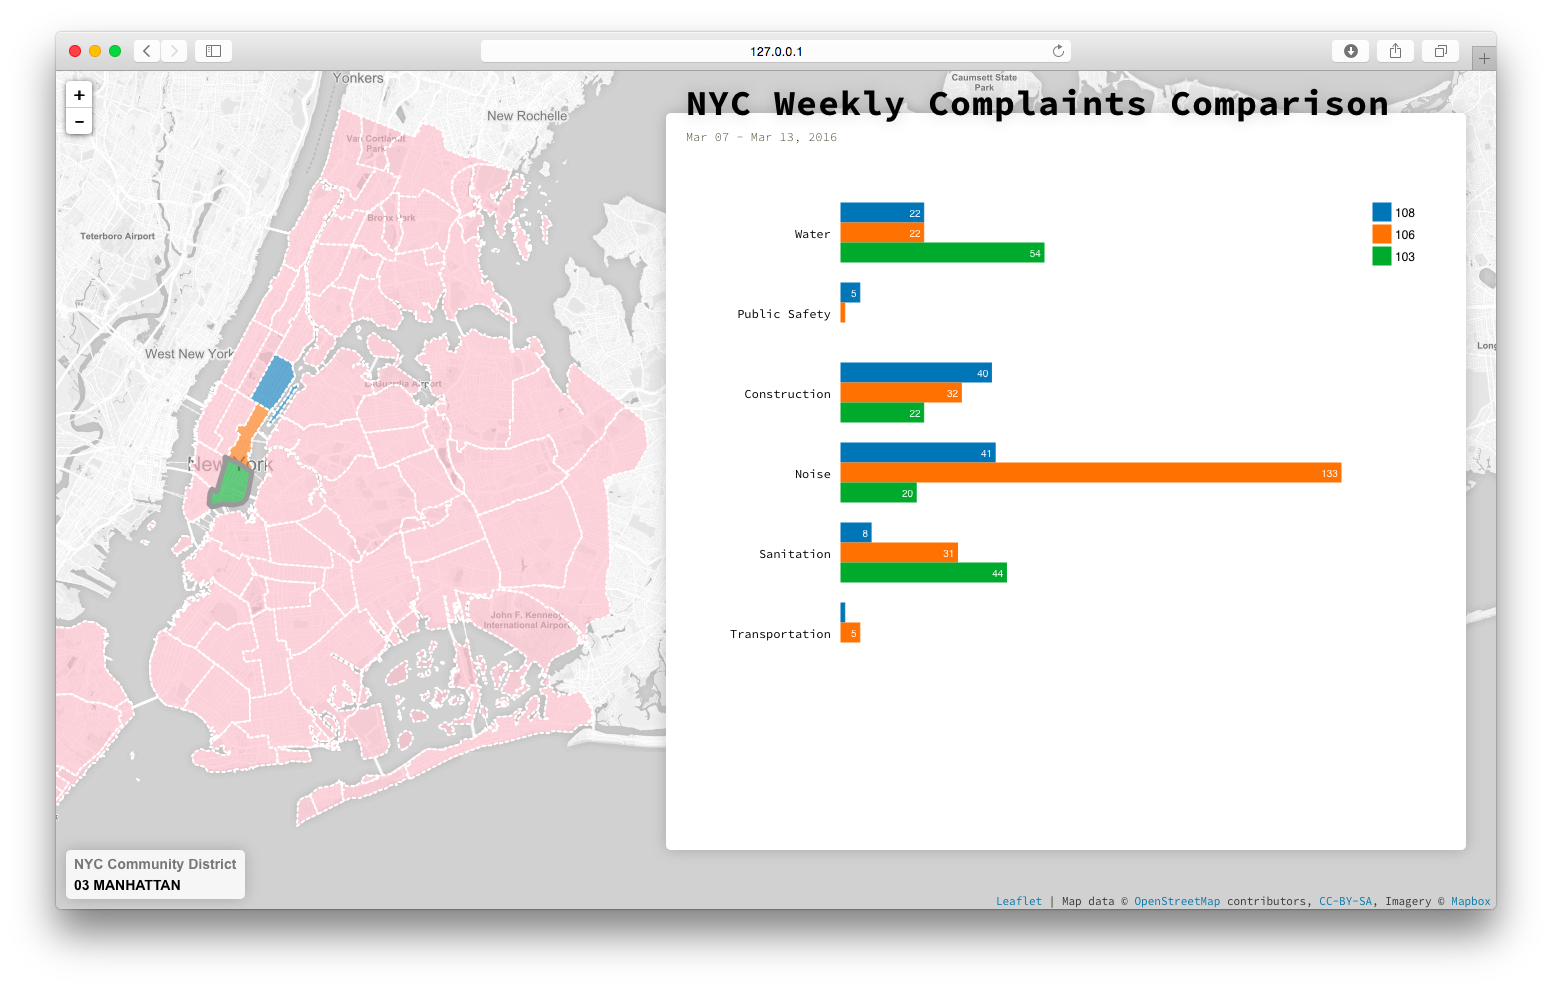
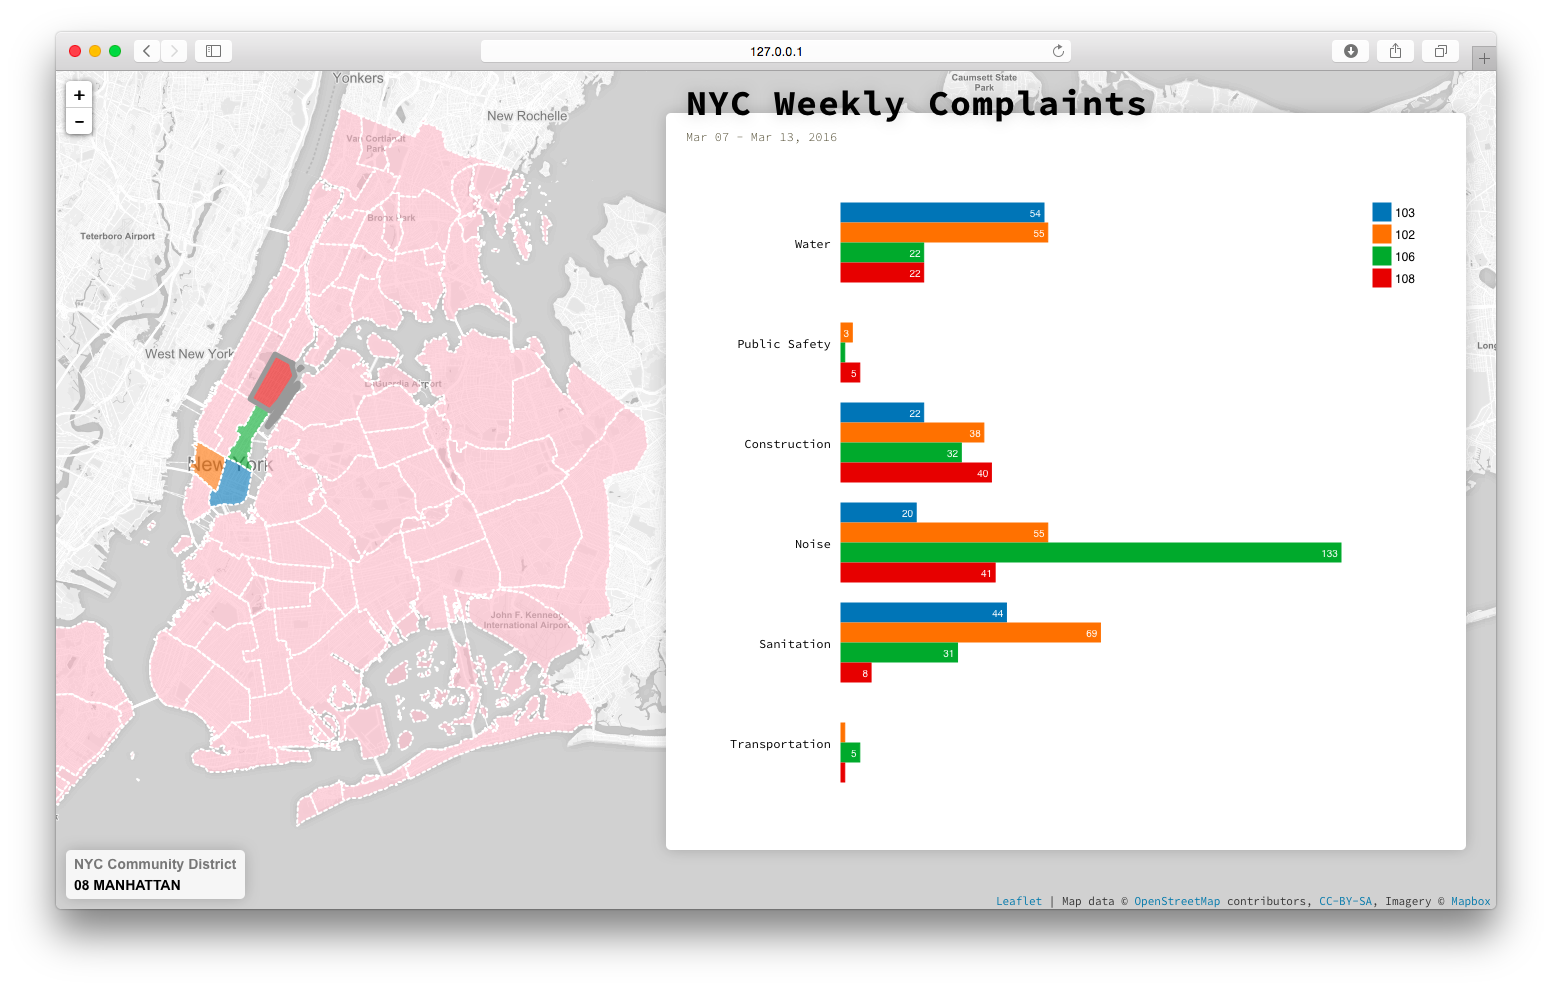
update screenshot & title

diff --git a/index.html b/index.html
@@ -16,7 +16,7 @@
 <body>
   <div id="map"></div>
   <div class="header">
-    <p class="head">NYC Weekly Complaints Comparison</p>
+    <p class="head">NYC Weekly Complaints</p>
     <span class="range">Mar 07 - Mar 13, 2016 <!--<img src="image/1457409075_Streamline-70.png" alt="" class="clean">--></span>
 
   </div>
